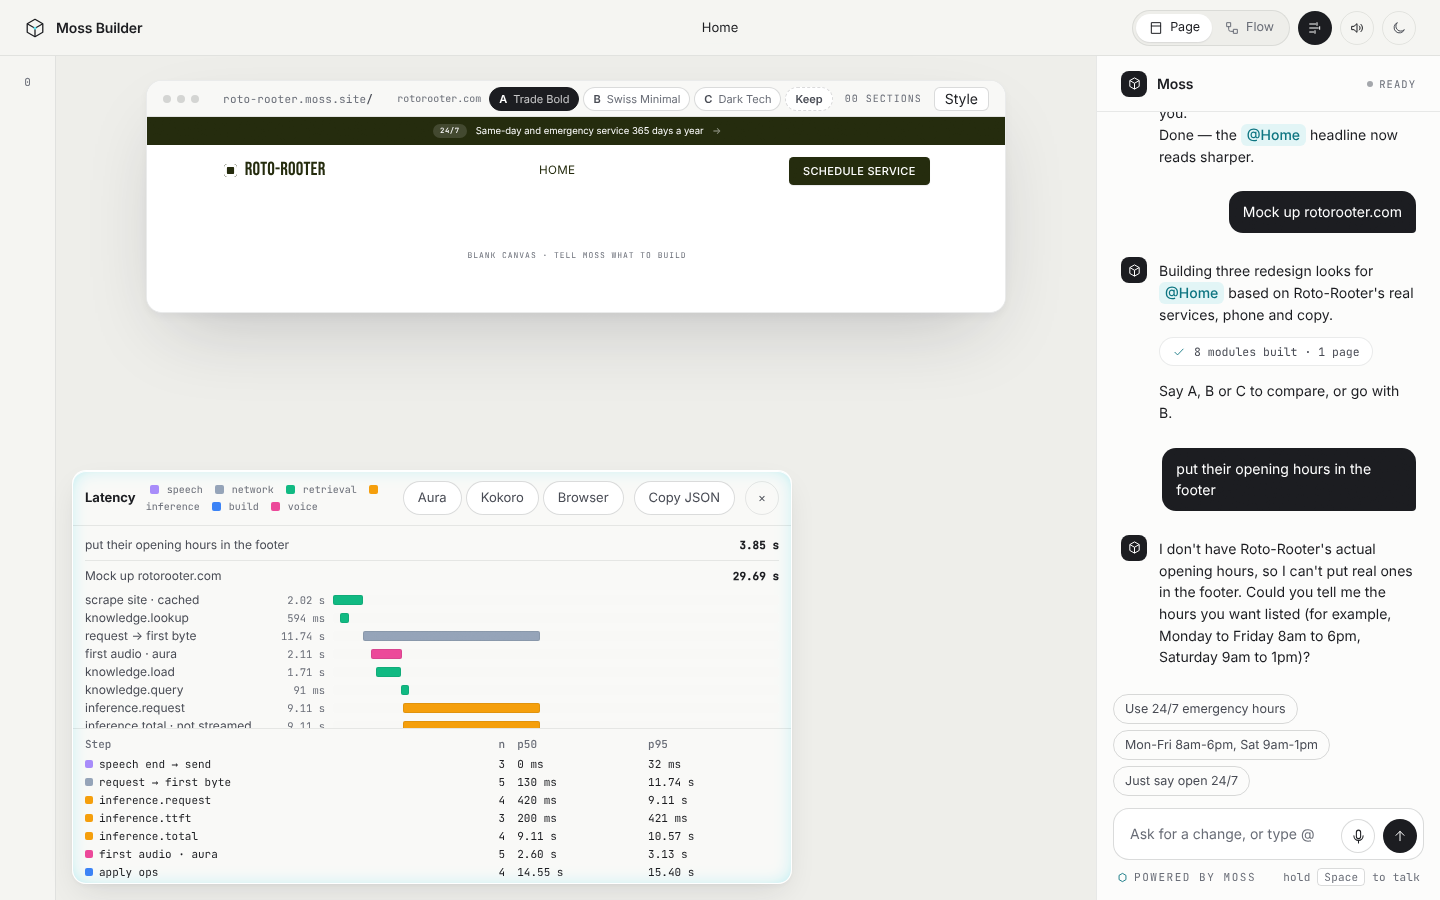
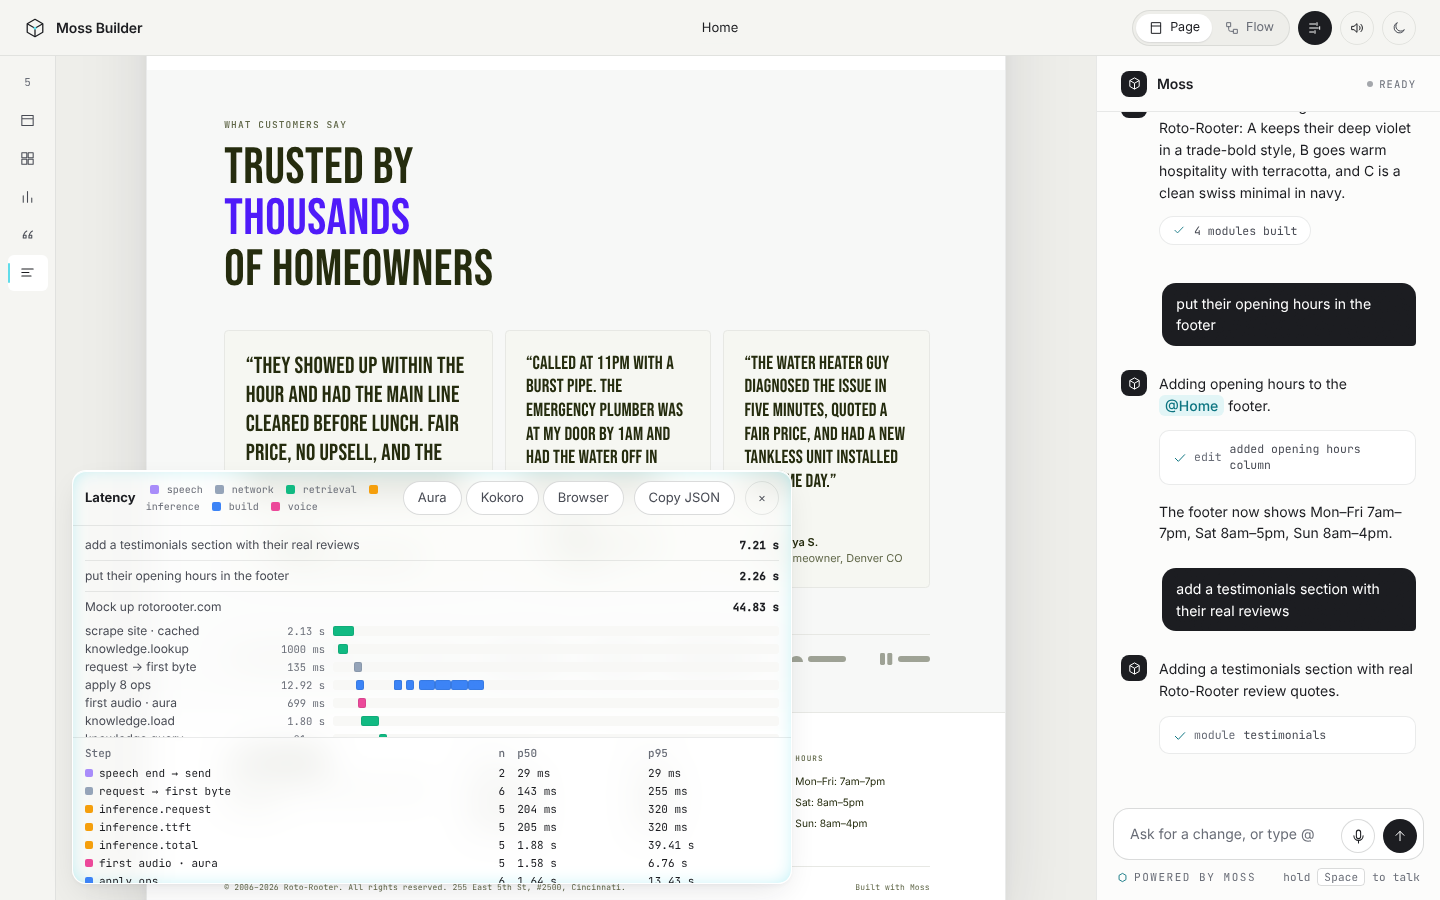
Don't invent site facts; document streaming, the waterfall, Moss indexes and voices
A live run asked for "their opening hours" and "their real reviews" on a
mocked site; retrieval found none and Moss made them up. Fact-seeking
edits with no retrieved facts now tell Moss not to invent them. The
knowledge cut-off drops to 0.25 (live, "opening hours" scored 0.29).
Includes the live waterfall screenshot.

Claude-Session: https://claude.ai/code/session_015DKdGCTn16ZeKQK3cTHGLa

diff --git a/api/agent.js b/api/agent.js
@@ -332,10 +332,13 @@ export const hooks = {
         out.meta = Object.assign(out.meta || {}, { facts: facts.length });
       }
       if (facts.length) out.extra = (out.extra || '') + knowledge.factsBlock(facts);
+      // asked for their real facts but none were found: say so rather than make them up (a live run invented hours and reviews)
+      else if (args.siteIndex && FACT_SEEKING.test(args.message)) out.extra = (out.extra || '') + 'SITE FACTS: none found on their site for this request. Do NOT invent hours, reviews, prices, phone numbers or other facts. Make no change that needs them; in reply, say you could not find it on their site and ask them to tell you.\n\n';
     } catch (e) { tr.add('knowledge.error', tr.now(), tr.now(), { error: String(e && e.message).slice(0, 160) }); }
     return out;
   },
 };
+const FACT_SEEKING = /\b(their|our|real|actual|genuine)\b|\b(hours|opening|open|reviews?|testimonials?|phone|number|address|location|prices?|pricing|rates|email|area)\b/i;
 const MOCK_QUERIES = ['services we offer', 'opening hours', 'customer reviews and testimonials', 'phone email address and service area', 'prices and rates', 'about the business, history and team'];
 
 export default async function handler(req, res) {

diff --git a/api/_knowledge.js b/api/_knowledge.js
@@ -2,7 +2,7 @@
 // Mocks and later edits retrieve only the passages that matter instead of sending the whole scrape to the model.
 import { client, ensureIndex } from './_moss.js';
 
-export const KNOWLEDGE = { maxAgeMs: 24 * 3600e3, maxIndexes: 50, minScore: 0.35, uploadWaitMs: 7000 };
+export const KNOWLEDGE = { maxAgeMs: 24 * 3600e3, maxIndexes: 50, minScore: Number(process.env.KNOWLEDGE_MIN) || 0.25, uploadWaitMs: 7000 }; // 0.25: live, 'opening hours' scored 0.29 on a real site
 export const siteIndexName = (host) => 'site-' + String(host || '').toLowerCase().replace(/^www\./, '').replace(/[^a-z0-9]+/g, '-').replace(/^-|-$/g, '').slice(0, 60);
 const ready = new Map(); // index name → true once Moss reports it Ready (per instance)
 

diff --git a/README.md b/README.md
@@ -41,6 +41,44 @@ The scraper fetches only http(s) on ports 80 and 443. Every DNS answer is checke
 
 All of these run in the browser and cost no tokens.
 
+## Streaming and the latency waterfall
+
+**Streaming.** `/api/agent` streams server-sent events when asked (`accept: text/event-stream`): `reply`, each `op`, the `span` timings, then `done`. An incremental JSON scanner (`api/_jsonScan.js`) releases the reply the moment its string closes, and each op the moment its object closes. The page speaks the reply right away and builds each op as it arrives, with one undo step per turn. If the stream breaks, what was built stays. If Moss doesn't stream, the same events come from one response.
+
+**Latency panel.** Open it with the bars button in the top bar, or add `?debug`. Each turn is a waterfall, with bars coloured by group:
+
+| Group | What it covers |
+|---|---|
+| Speech | From when you stopped talking to the send |
+| Network | The request until the first byte |
+| Retrieval | `router.query`, `knowledge.*`, `crawl.page`, `index.*` |
+| Inference | `inference.request`, `inference.ttft`, `inference.total` |
+| Build | One segment per op applied |
+| Voice | First audio, labelled by engine |
+
+Server spans are placed on the page's clock using the server time carried on every event. Below the waterfall: p50 and p95 over the last 20 turns, a Copy JSON button, and the Voice switch.
+
+## Moss indexes
+
+**1. Intent router.** The commands (`api/_intents.js`) and about 140 example paraphrases are a Moss index, built automatically on first use and renamed whenever the list changes. Each warm function loads it once and queries it before inference while you edit, in about 13 ms including embedding the query.
+- **High score:** the page runs the command itself, with no LLM.
+- **Middle score:** the likely commands go to Moss as hints.
+- **Guards:** embeddings confuse opposites ("bigger" matched *Smaller buttons* at 0.94), so each command has `require` and `avoid` word patterns that veto contradictions. In the live evaluation (`data/router-eval.md`, re-run with `GET /api/router-eval`), the hybrid router had no wrong commands or misfires; semantic search alone had 3–5.
+- **Cold starts:** a cold instance doesn't make a turn wait for the model and index (250 ms budget), and the page sends a warm-up ping when it opens.
+
+**2. Site knowledge.** "Mock up joesplumbing.com" reads the home page plus up to 3 nav pages (services, about, contact, reviews, pricing or FAQ) in parallel within 8 s. It splits them into passages tagged by kind (service, hours, contact, review, price, about, FAQ), into one Moss index per site (`site-<host>`).
+- A site read in the last 24 hours skips the crawl.
+- At most about 50 site indexes are kept, oldest deleted first.
+- On Vercel the build finishes in the background (`waitUntil`), so the first mock never waits for it.
+- Mock builds and later edits retrieve only the relevant facts.
+- When you ask for real facts that aren't on the site, Moss is told not to invent them.
+
+## Voices: Aura and Kokoro
+
+- **Aura (Deepgram)** is the default. `GET /api/speak?text=` streams the audio, so each sentence starts playing on its first bytes, the next ones preload, and the browser caches repeated lines.
+- **Kokoro** (open source, Kokoro-82M through `kokoro-js`) runs in the visitor's browser in a Web Worker, with no server cost. It's opt-in: use the Voice switch in the Latency panel or `?voice=kokoro`. The first time it downloads the `q8` model (about 92 MB, then cached) for WASM; `?kokoro=webgpu` uses WebGPU with the larger fp32 model. If it fails, Aura (or the browser voice) takes over.
+- **Browser** speech is the last fallback.
+
 ## Costs and a public link
 
 **Moss tokens:**
@@ -77,6 +115,9 @@ All of these run in the browser and cost no tokens.
    | `DEEPGRAM_API_KEY` | Deepgram key for voice (optional; without it the browser's speech is used) |
    | `DEEPGRAM_VOICE` | optional, default `aura-2-thalia-en` |
    | `DEEPGRAM_STT_MODEL` | optional, default `nova-3` |
+   | `ROUTER_HIGH` / `ROUTER_MID` | optional router cut-offs, default `0.65` / `0.5` (from `data/router-eval.md`) |
+   | `MOSS_ROUTER` | optional, `off` disables the intent router |
+   | `KNOWLEDGE_MIN` | optional relevance cut-off for site facts, default `0.25` |
 
    The function calls `POST <base>/chat/completions` with `Authorization: Bearer <project id>:<project key>`.
 
@@ -96,6 +137,7 @@ npm test
 - `tests/voice.cjs`: the voice loop with a fake recognizer and synthesizer (speak to build, spoken replies, hold Space, spoken @mentions, barge-in, mute, unsupported browsers).
 - `tests/mocks.cjs`: "mock up a site" against mock scrape and agent endpoints (scraped facts, three looks, A/B/C switching with no model calls, "go with B", undo, unreadable sites, offline mocks that invent nothing).
 - `tests/style.cjs`: motion (levels, word reveal, scroll-in, reduced motion), buttons, nav, swatches, section style, the Style drawer, the section toolbar, photo upload (never sent to Moss), undo and the phone layout.
+- `tests/latency.cjs`: streaming turns against a fake SSE agent (the reply before the build finishes, ops one by one, one undo per turn, a broken stream, router hits that skip inference, an error falling back), the waterfall rows, clock alignment and p50/p95, streamed mocks, and Kokoro with a fake worker (progress, speaking, falling back, the Voice switch).
 - `tests/functional.cjs`: the original end-to-end checks (build, edit, reorder, restyle, delete, undo, pages, @mentions, flow drag, theme, sound, 375px mobile), using the offline agent.
 
 Playwright and Chromium must be available for the browser tests.
